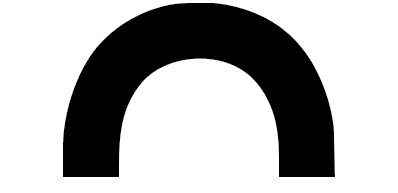
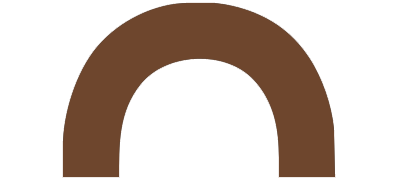
add name field to registration form

diff --git a/app/assets/stylesheets/register.css b/app/assets/stylesheets/register.css
@@ -8,13 +8,24 @@ body {
   top: 60px;
 }
 
+#registerform h2 {
+  color: rgb(110,70,45);
+}
+
+.field label, .field em {
+  color: rgb(110,70,45);
+}
+
 #privacy_statement {
   opacity: 0;
   position: relative;
-  top: -110px;
+  top: -120px;
   text-align: justify;
   z-index: -100;
-  border: 1px dashed red;
+  background-color: rgba(110,70,45,0.4);
+  border-radius: 5px;
+  color: white;
+  padding: 4px;
 }
 
 #lockdiv {
